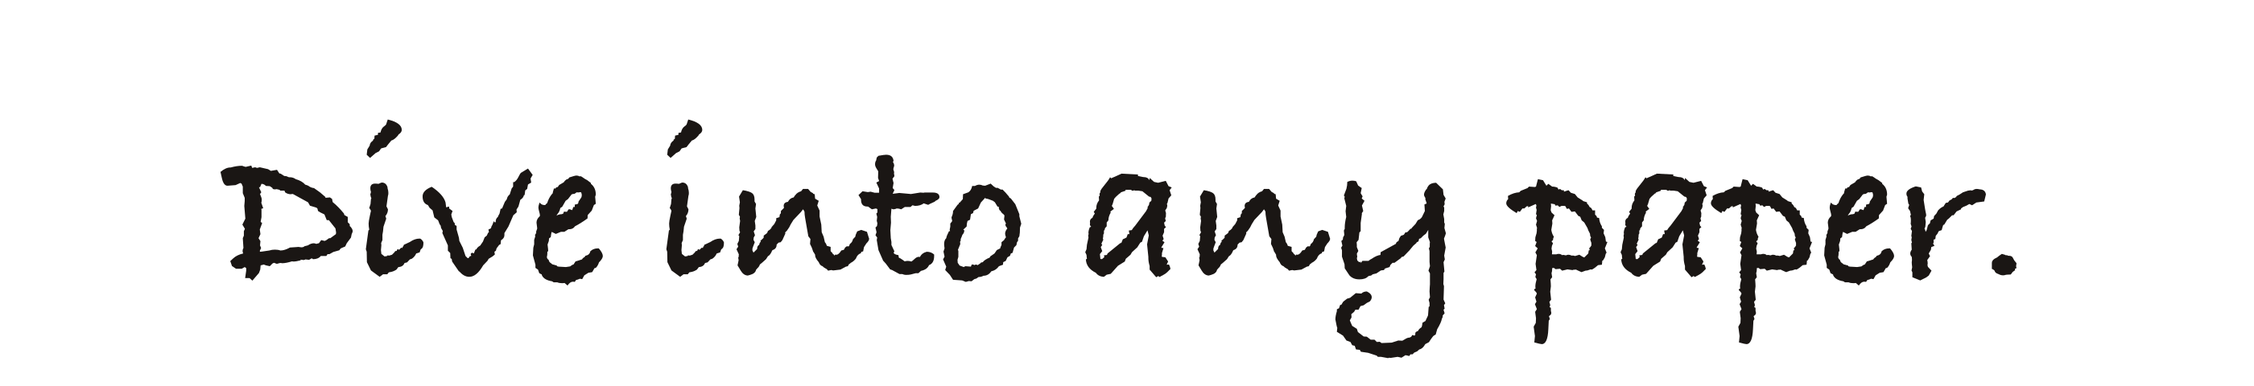
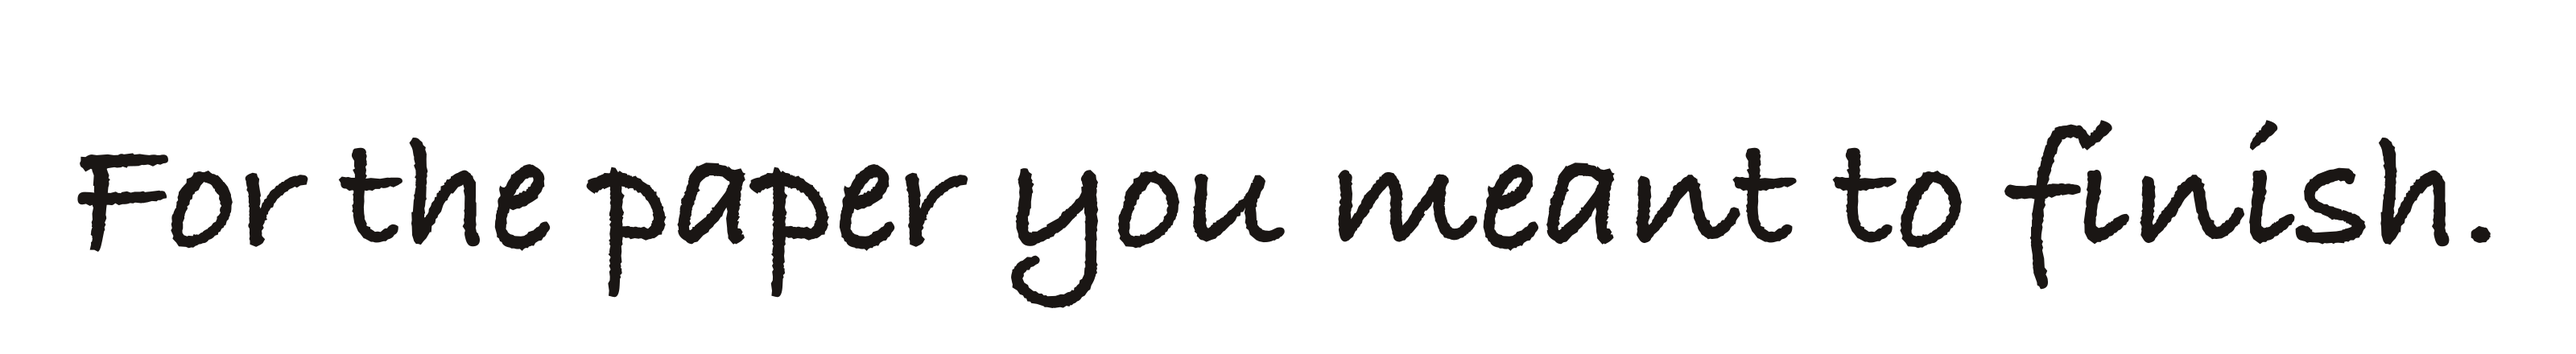
Hero hook: "For the paper you meant to finish."
Sharper emotional target than the previous "in every paper…" line. The
unfinished paper is the near-universal researcher experience — no shame
named, no accusation, just recognition. README hero PNG regenerated in
Bradley Hand to match; Pages layout shows it as a single handwritten
caption under the Fathom wordmark.

README body rewritten to drop the "papers assume you already know" framing
and describe the reading experience directly.

Changed region(s): [[0.0311, 0.325, 0.9943, 0.9455], [0.2796, 0.325, 0.3107, 0.4136]]

diff --git a/docs/_layouts/default.html b/docs/_layouts/default.html
@@ -4,12 +4,12 @@
   <meta charset="utf-8">
   <meta name="viewport" content="width=device-width, initial-scale=1">
   <meta name="color-scheme" content="light">
-  <title>{% if page.url == '/' %}Fathom — In every paper, there's a page that loses you.{% else %}{{ page.title | default: page.name | replace: '.md', '' }} · Fathom{% endif %}</title>
+  <title>{% if page.url == '/' %}Fathom — For the paper you meant to finish.{% else %}{{ page.title | default: page.name | replace: '.md', '' }} · Fathom{% endif %}</title>
   <meta name="description" content="{{ page.description | default: site.description }}">
   <link rel="icon" href="{{ '/assets/icon.png' | relative_url }}" type="image/png">
   <link rel="stylesheet" href="{{ '/assets/css/style.css' | relative_url }}">
-  <meta property="og:title" content="Fathom — In every paper, there's a page that loses you.">
-  <meta property="og:description" content="A macOS reader that brings you back. Free and open source.">
+  <meta property="og:title" content="Fathom — For the paper you meant to finish.">
+  <meta property="og:description" content="A macOS reader where the explanation of any passage is one pinch away. Free and open source.">
   <meta property="og:image" content="{{ '/assets/icon.png' | absolute_url }}">
   <meta name="theme-color" content="#faf4e8">
 </head>
@@ -35,10 +35,7 @@
 {% if page.url == '/' %}
 <header class="hero">
   <h1 class="hero-title">Fathom</h1>
-  <p class="hero-hook">
-    In every paper, there's a page that loses you.<br>
-    <em>Fathom brings you back.</em>
-  </p>
+  <p class="hero-hook">For the paper you meant to finish.</p>
   <a class="btn-download" href="https://github.com/ashryaagr/Fathom/releases/latest/download/Fathom-arm64.dmg">
     Download for Mac
   </a>

diff --git a/docs/assets/css/style.scss b/docs/assets/css/style.scss
@@ -133,24 +133,16 @@ a:hover { color: $amber-dark; }
   margin: 0 0 28px;
 }
 
-/* The hook: two lines, the second in the handwritten accent for warmth. */
+/* The hook — one sentence, handwritten, sits under the wordmark like a caption. */
 .hero-hook {
   max-width: 30em;
-  margin: 0 auto 40px;
-  font-size: clamp(1.2rem, 2.3vw, 1.5rem);
-  line-height: 1.35;
-  color: $ink-soft;
+  margin: 0 auto 44px;
+  font-family: 'Excalifont', 'Caveat', 'Kalam', 'Bradley Hand', cursive;
   font-weight: 400;
-  letter-spacing: -0.01em;
-
-  em {
-    display: inline-block;
-    margin-top: 6px;
-    font-family: 'Excalifont', 'Caveat', 'Kalam', 'Bradley Hand', cursive;
-    font-style: normal;
-    color: $amber-dark;
-    font-size: 1.1em;
-  }
+  font-size: clamp(1.4rem, 2.6vw, 1.8rem);
+  line-height: 1.3;
+  letter-spacing: -0.005em;
+  color: $amber-dark;
 }
 
 .btn-download {

diff --git a/README.md b/README.md
@@ -9,10 +9,11 @@
 [![Platform](https://img.shields.io/badge/macOS-arm64-lightgrey)](#download)
 [![License](https://img.shields.io/github/license/ashryaagr/Fathom)](./LICENSE)
 
-Research papers assume you already know what they mean. Fathom is how you find
-out — pinch on a passage and the page gives way to a lens, with an explanation
-arriving grounded in the paper itself, streaming as you read. Pinch a phrase
-inside to dive deeper. Swipe back, like surfacing.
+A macOS reader where the explanation of any passage is one pinch away —
+streaming in place, grounded in the paper itself. Pinch a phrase inside a
+lens to dive deeper. Swipe back, the way you came. Every lens persists: close
+the PDF, open it next month, pinch the same paragraph — the thread you had
+is still there.
 
 ### [⬇ Download Fathom for Mac](https://github.com/ashryaagr/Fathom/releases/latest/download/Fathom-arm64.dmg)
 
